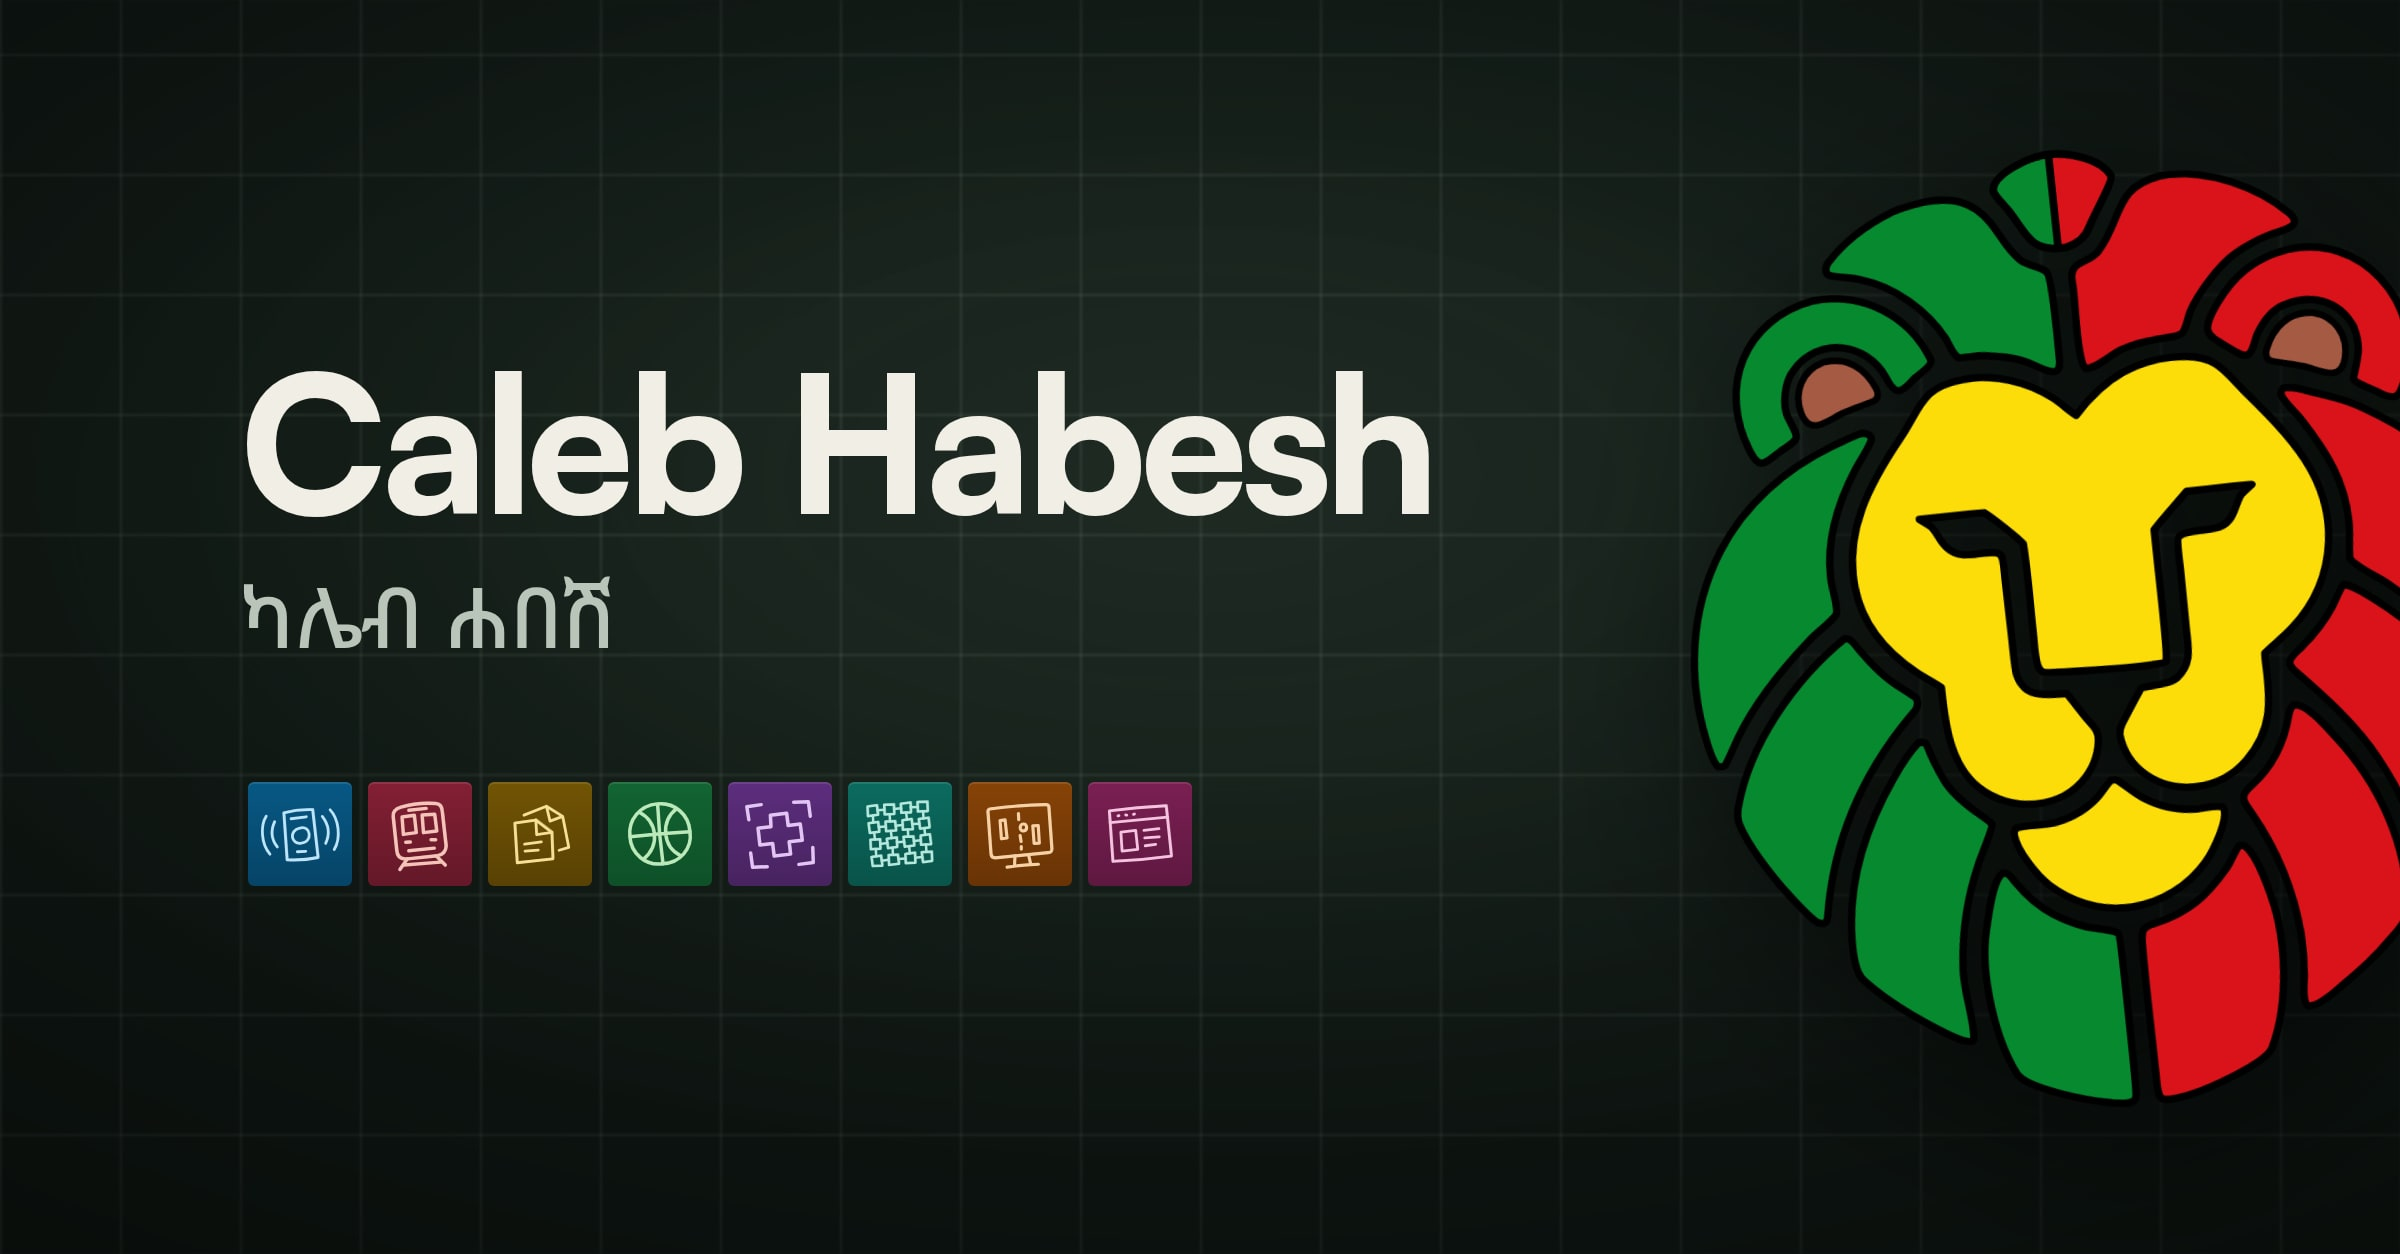
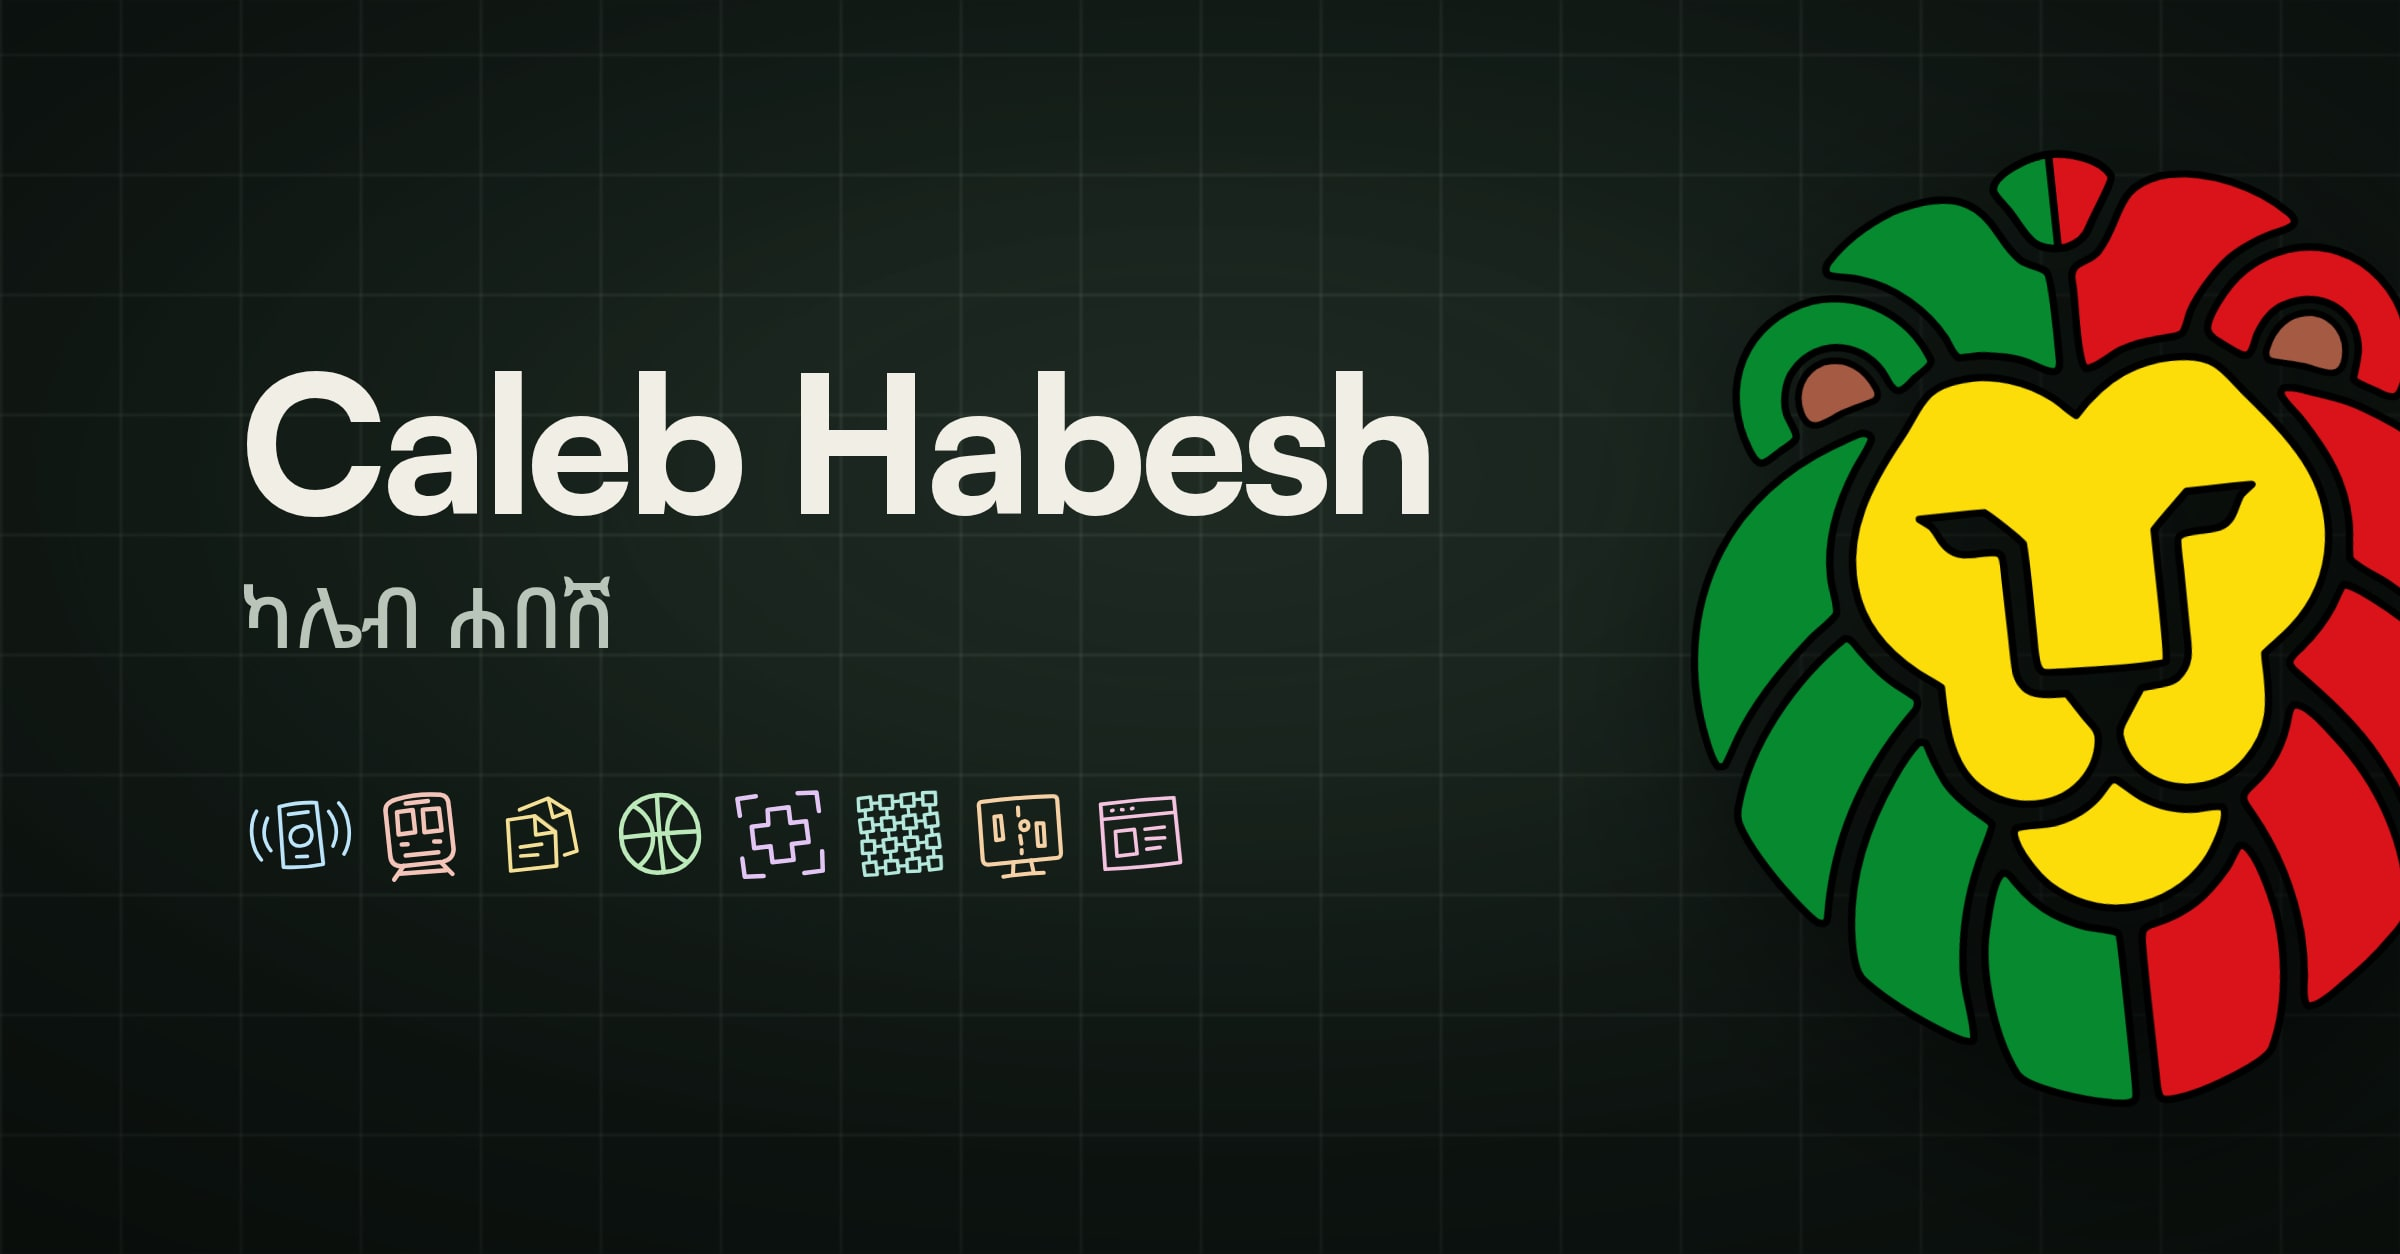
Show the link-preview project sketches without tiles

Changed region(s): [[0.0938, 0.622, 0.5, 0.7153]]

diff --git a/index.html b/index.html
@@ -50,7 +50,7 @@
     />
     <meta property="og:type" content="website" />
     <meta property="og:url" content="https://calebhabesh.com/" />
-    <meta property="og:image" content="https://calebhabesh.com/og-image.jpg?v=3fdb9d313829" />
+    <meta property="og:image" content="https://calebhabesh.com/og-image.jpg?v=4ff50241b495" />
     <meta property="og:image:width" content="2400" />
     <meta property="og:image:height" content="1254" />
     <meta property="og:image:alt" content="Caleb Habesh in English and Ge'ez above sketches of eight projects, beside the lion emblem on the site's dark grid." />
